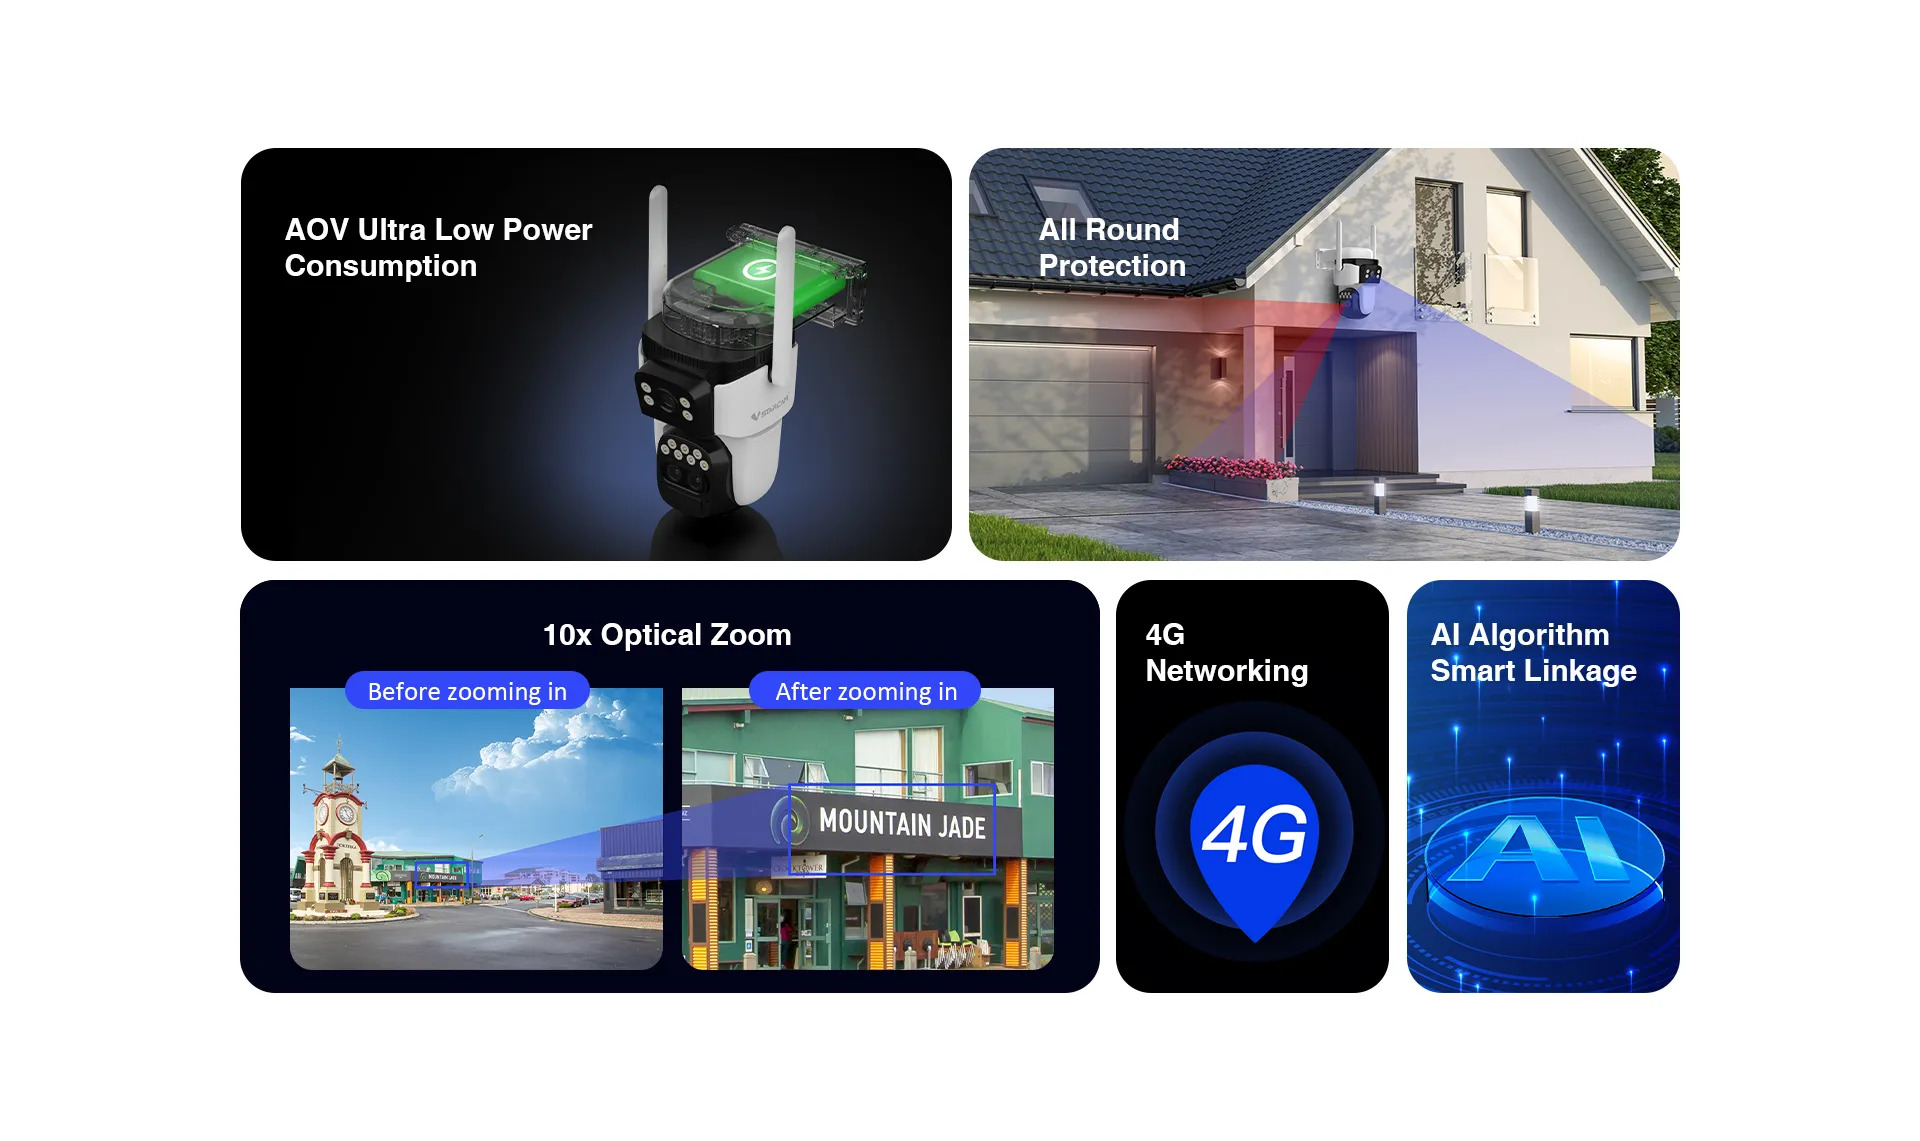
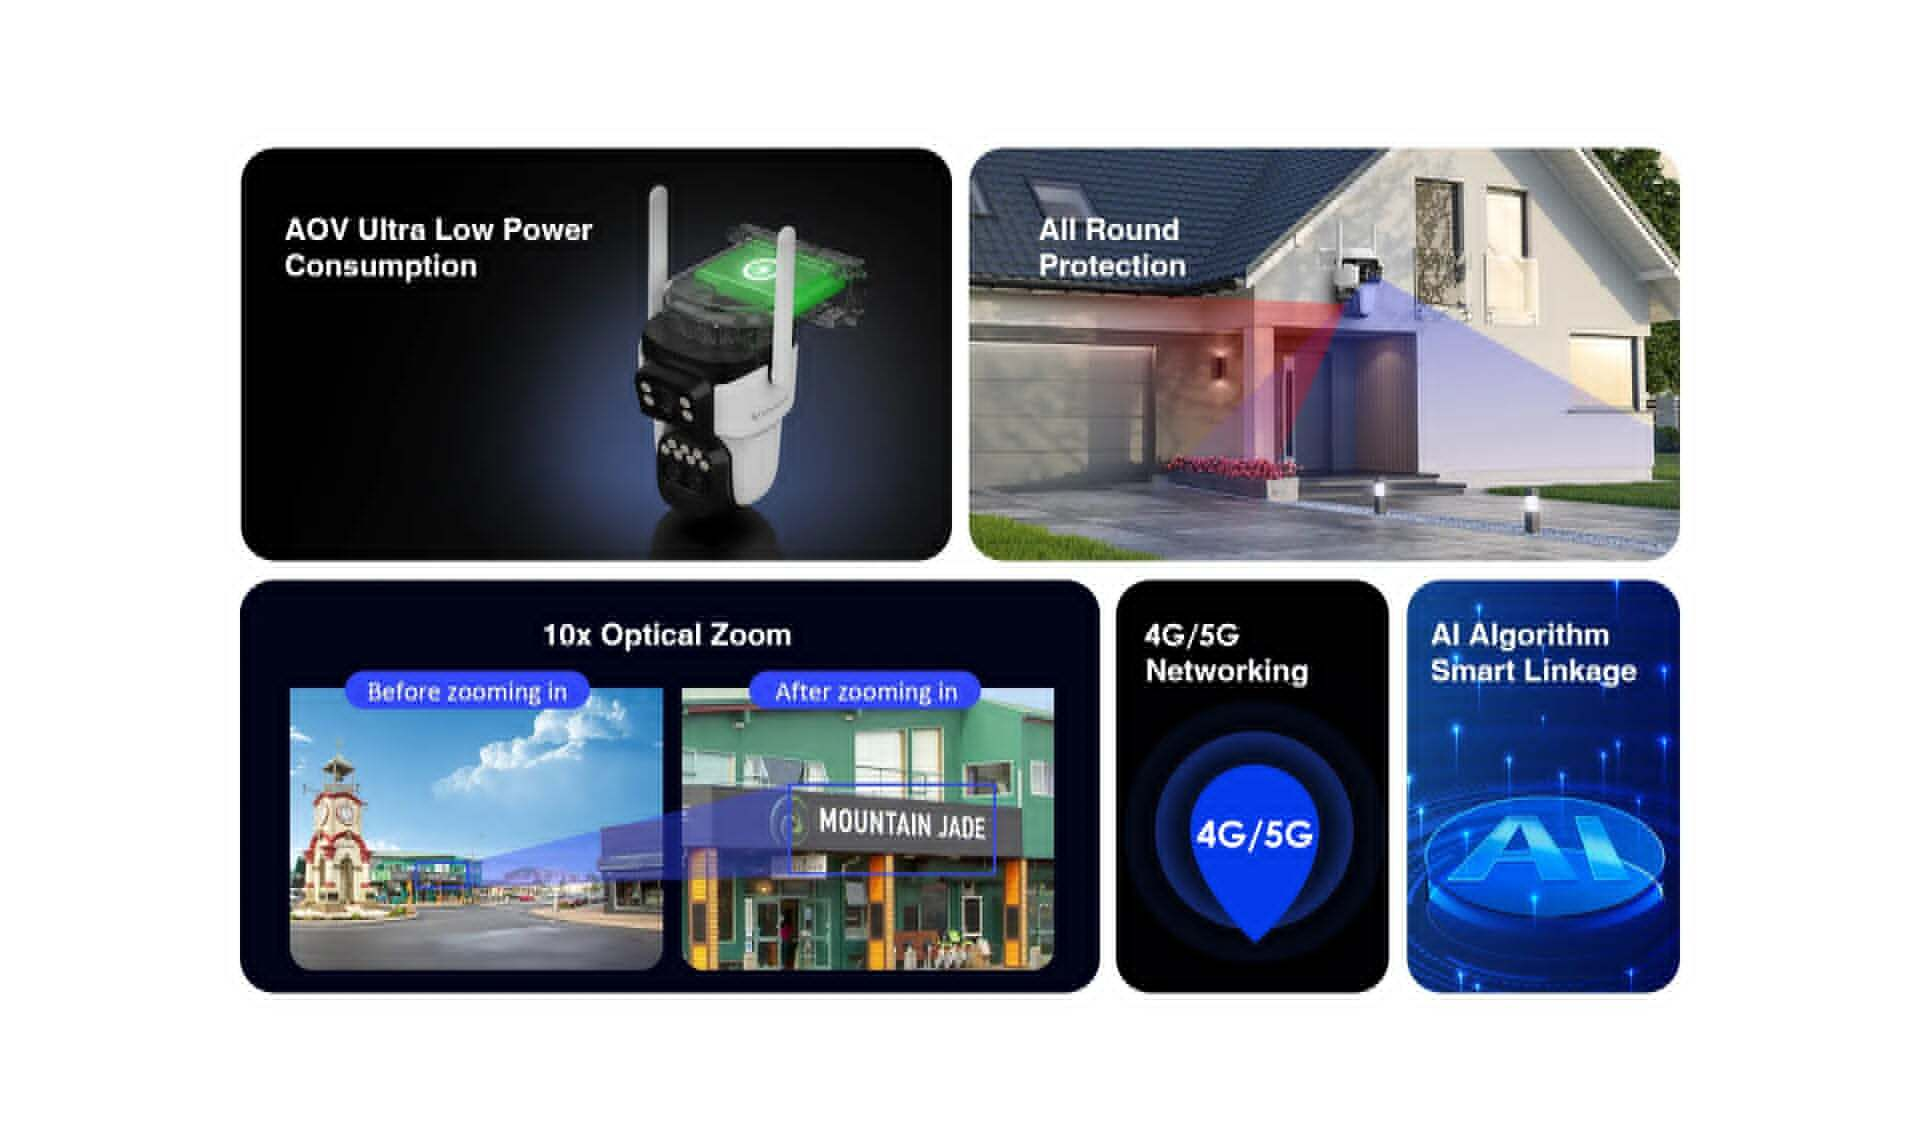
v28 update specs

diff --git a/products/cctvs/v28-triple.html b/products/cctvs/v28-triple.html
@@ -315,7 +315,7 @@
                                                     <tr><th class="w-1/2 px-4 py-3 text-left font-medium text-slate-600">Panorama Camera</th><td class="px-4 py-3 text-slate-900">4mm Lens (1G3P)</td></tr>
                                                     <tr><th class="px-4 py-3 text-left font-medium text-slate-600">Tracking Camera</th><td class="px-4 py-3 text-slate-900">4mm (1G3P) + 12mm (1G2P)</td></tr>
                                                     <tr><th class="px-4 py-3 text-left font-medium text-slate-600">Viewing Angle</th><td class="px-4 py-3 text-slate-900">100°</td></tr>
-                                                    <tr><th class="px-4 py-3 text-left font-medium text-slate-600">Pan Rotation</th><td class="px-4 py-3 text-slate-900">270°</td></tr>
+                                                    <tr><th class="px-4 py-3 text-left font-medium text-slate-600">Pan Rotation</th><td class="px-4 py-3 text-slate-900">355°</td></tr>
                                                     <tr><th class="px-4 py-3 text-left font-medium text-slate-600">Tilt Rotation</th><td class="px-4 py-3 text-slate-900">90°</td></tr>
                                                 </tbody>
                                             </table>